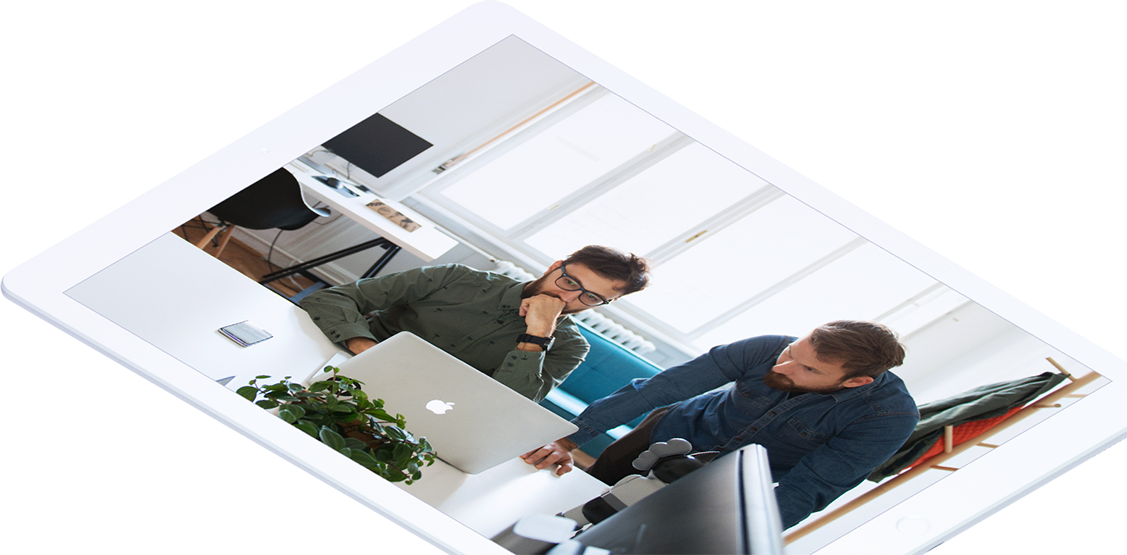
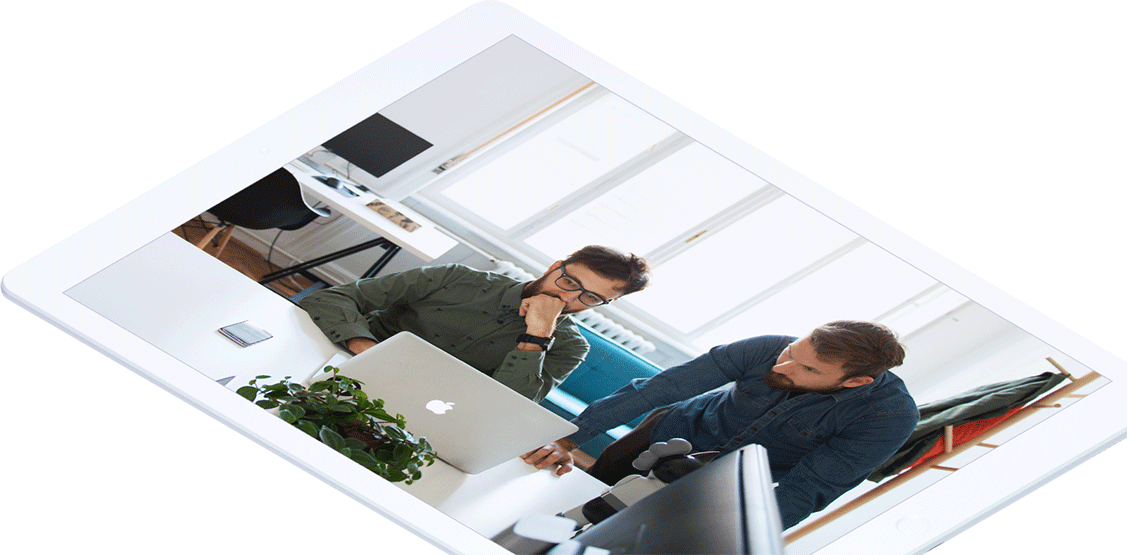
Update

diff --git a/features/index.html b/features/index.html
@@ -8,15 +8,15 @@
 
     <link rel="stylesheet/less" href="./index.less">
     <link rel="stylesheet/less" href="../core/style.less">
-    <link rel="stylesheet" href="css/bootstrap.min.css">
+    <link rel="stylesheet" href="../core/lib/bootstrap.min.css">
     <link rel="stylesheet" href="../core/lib/normalize.css">
-    <link rel="stylesheet" href="css/animate.css">
+    <link rel="stylesheet" href="../core/lib/animate.css">
     <script src="../core/lib/less.min.js"></script>
     <script src="../core/lib/jquery-2.1.4.min.js"></script>
     <script src="../core/lib/underscore-min.js"></script>
     <script src="../core/lib/fun.js"></script>
     <script src="../core/lib/storingUser.js"></script>
-    <script src="js/bootstrap.min.js"></script>
+    <script src="../core/lib/bootstrap.min.js"></script>
     <script src="./index.js"></script>
 </head>
 <body>

diff --git a/features/index.less b/features/index.less
@@ -399,7 +399,7 @@
     .down{
       padding: 120px;
       height: 783px;
-      width: 1400px;
+      width: 100%;
       background: url("images/big_bg.png") no-repeat;
       background-size:100% 100%;
       background-position: center center;
@@ -436,12 +436,13 @@
         position: absolute;
         bottom: -150px;
         right: 0;
-        transition: 2s;
+        transition: 1s;
         transform: translateX(0px) rotateZ(0deg);
       }
       img:hover{
-        transition: 2s;
-        transform: translateX(-50px) rotateZ(-5deg);
+        transform: rotate(-6deg) scale(1.1);
+		right: 40px;
+		bottom: -90px;
 
         //animation: Move 2s  alternate infinite;
       }

diff --git a/homePage/index.less b/homePage/index.less
@@ -390,9 +390,10 @@
       transition: all 1s;
     }
   }
-  .content_bottom:hover img{
-    margin-left: -450px;
-    bottom: -50px;
+  .content_bottom img:hover{
+    transform: rotate(-6deg) scale(1.1);
+    margin-left: -370px;
+    bottom: -70px;
   }
 }
 .down{
